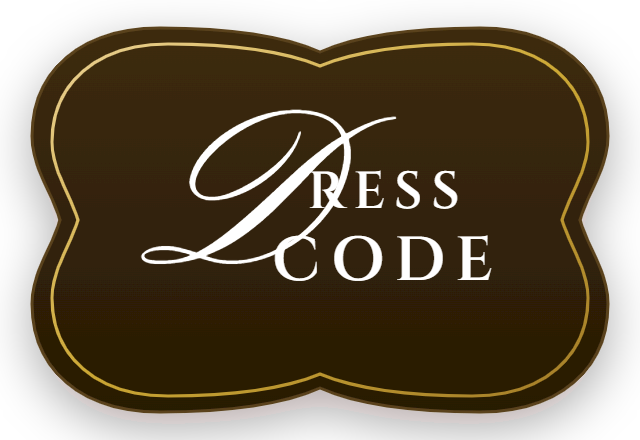
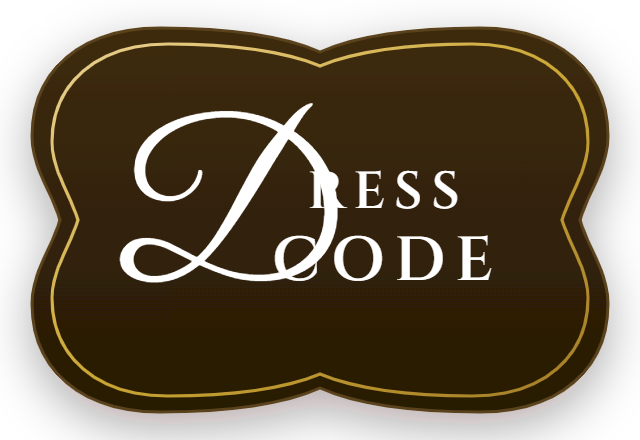
fix(dresscode): alinear tarjeta Formal de Noche recta con texto 100% legible y redisenar D caligrafica fluida en insignia

Changed region(s): [[0.1875, 0.2364, 0.625, 0.65]]

diff --git a/app/static/css/style.css b/app/static/css/style.css
@@ -907,17 +907,18 @@ body.envelope-locked{
   margin:0 auto;
 }
 
-/* 1. Tarjeta Pequeña Inclinada de Especificación */
+/* 1. Tarjeta Pequeña Recta de Especificación */
 .dresscode-tarjeta-flotante{
   position:absolute;
-  top:8px;
+  top:-26px;
   left:10px;
-  width:176px;
+  width:202px;
   background:#FFFFFF;
+  border:1px solid rgba(226,218,206,.75);
   border-radius:2px;
-  padding:12px 10px 14px;
-  box-shadow:0 10px 25px rgba(45,30,10,.08), 0 2px 6px rgba(45,30,10,.03);
-  transform:rotate(-6.5deg);
+  padding:12px 12px 16px;
+  box-shadow:0 10px 26px rgba(45,30,10,.08), 0 2px 6px rgba(45,30,10,.03);
+  transform:none;
   text-align:center;
   z-index:2;
   box-sizing:border-box;
@@ -925,8 +926,8 @@ body.envelope-locked{
 
 .dresscode-tarjeta__titulo{
   font-family:var(--serif);
-  font-size:0.78rem;
-  letter-spacing:.14em;
+  font-size:0.82rem;
+  letter-spacing:.16em;
   color:var(--ocre-osc);
   margin:0 0 4px;
   font-weight:600;
@@ -936,10 +937,10 @@ body.envelope-locked{
 .dresscode-tarjeta__sub{
   font-family:var(--serif);
   font-style:italic;
-  font-size:0.84rem;
+  font-size:0.86rem;
   color:var(--tinta-suave);
   margin:0;
-  line-height:1.3;
+  line-height:1.32;
 }
 
 /* 2. Insignia Festoneada Ocre Oscuro con monograma D y RESS CODE */
